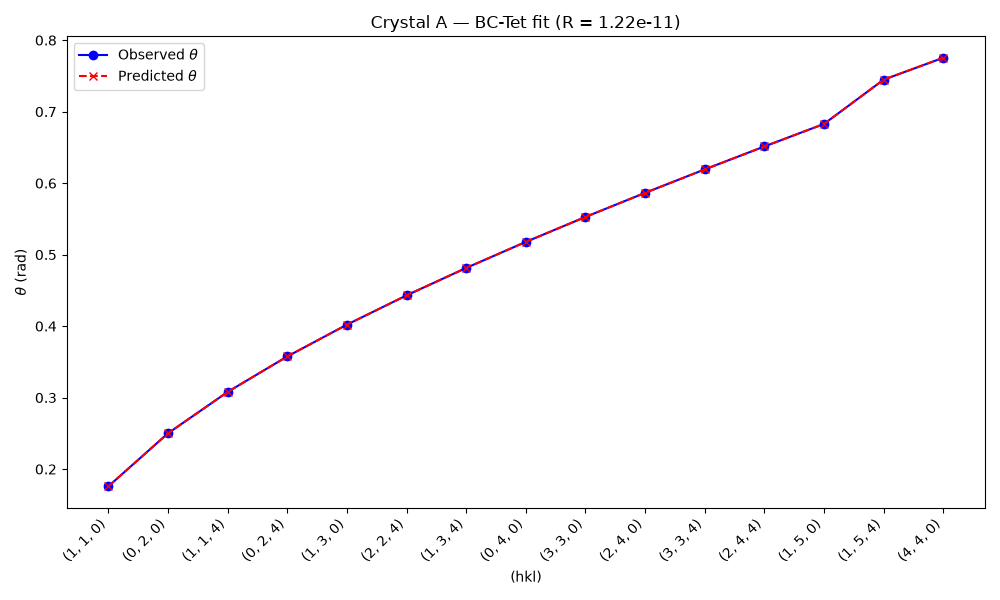
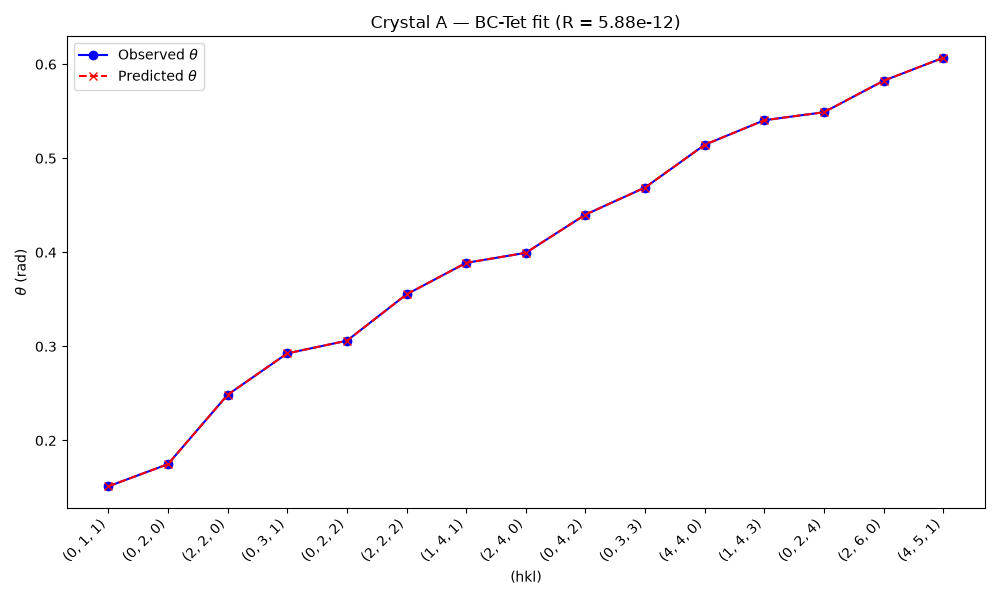
sdfgsdfg

diff --git a/HW1/solve_hw1.py b/HW1/solve_hw1.py
@@ -285,7 +285,7 @@ def plot_all_fits(
 def main() -> None:
     kw = 8.8581
     
-    alpha_A, alpha_B = load_data("data.csv")
+    alpha_A, alpha_B = load_data("data2.csv")
     
     for crystal_label, alpha in [("A", alpha_A), ("B", alpha_B)]:
         print(f"\n{'='*50}")
